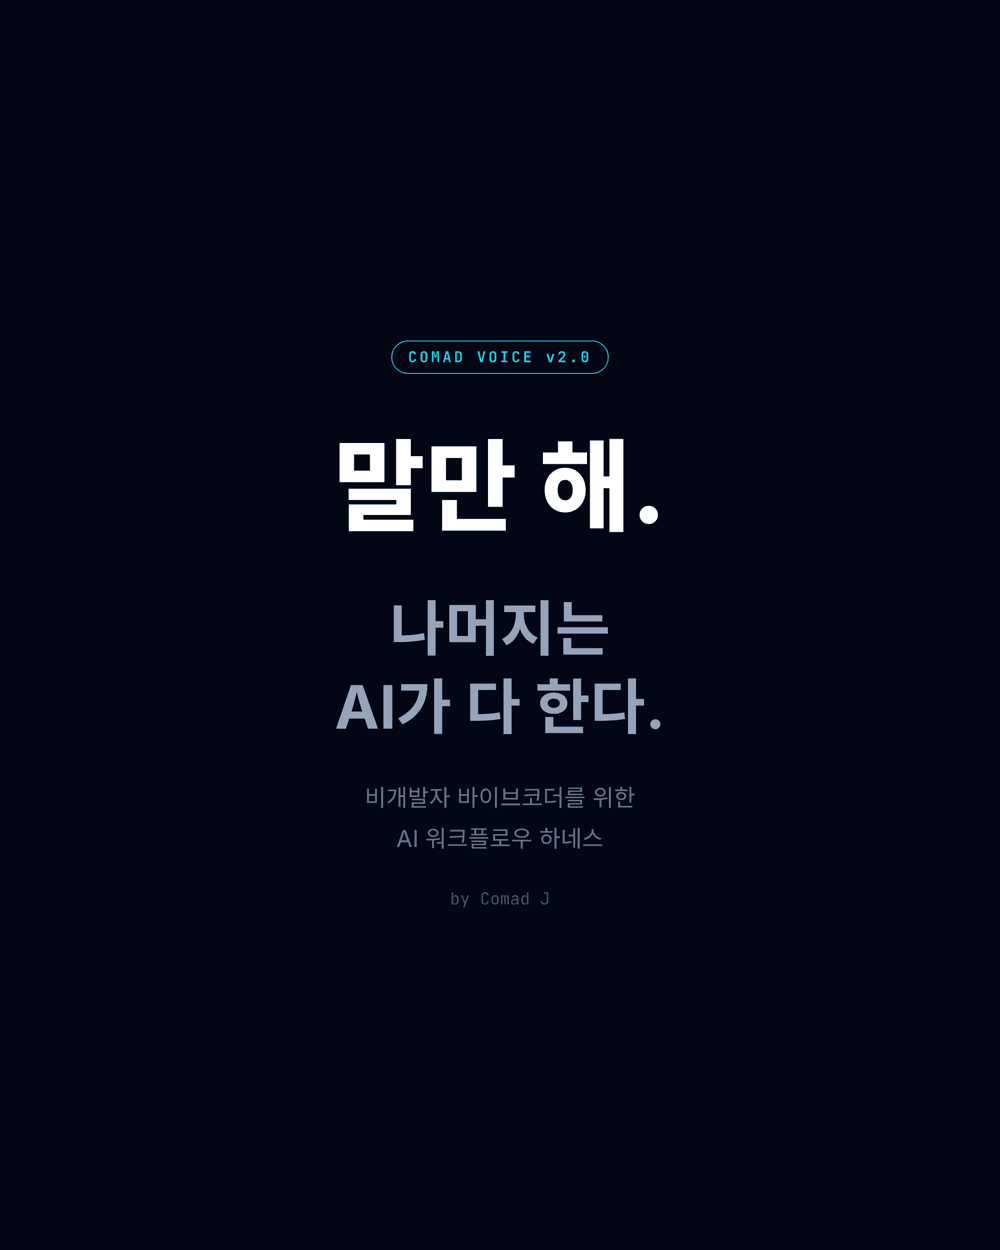
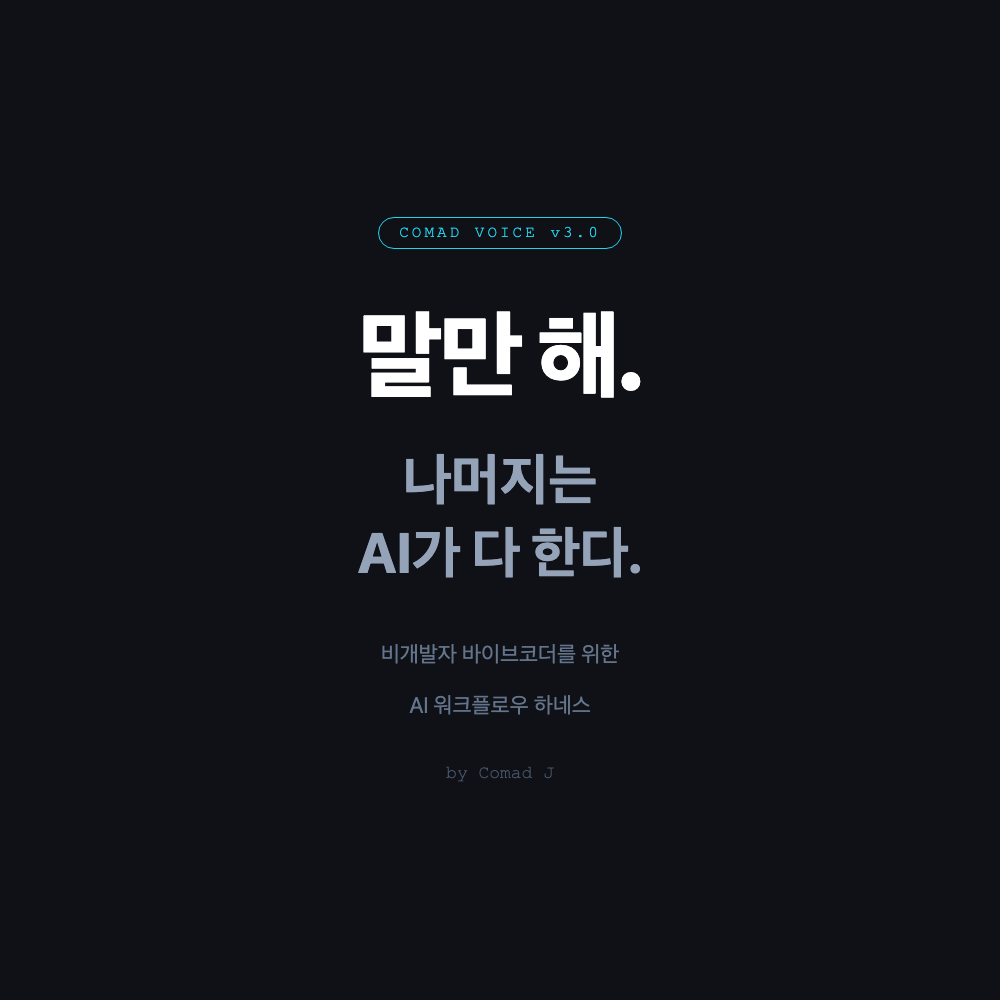
v3.0.0: update README, images, and version for T6-T10 feature expansion
Regenerate cover image (v2.0 -> v3.0) and pipeline image (5 roles -> 6 roles,
11 triggers). Update feature comparison table, cheat sheet, and project
structure to reflect all new triggers. Increase image display width to 800px.

diff --git a/README.md b/README.md
@@ -1,5 +1,5 @@
 <p align="center">
-  <img src="docs/images/slide-1-cover.png" alt="Comad Voice" width="480" style="max-width: 100%;">
+  <img src="docs/images/slide-1-cover.png" alt="Comad Voice" width="800" style="max-width: 100%;">
 </p>
 
 <h1 align="center">Comad Voice</h1>
@@ -70,12 +70,12 @@
 **After:** "검토해봐" → Claude가 알아서 진단하고, 선택지 카드를 보여주고, 선택만 하면 자동 실험 루프
 
 <p align="center">
-  <img src="docs/images/slide-2-before-after.png" alt="Before vs After" width="600" style="max-width: 100%;">
+  <img src="docs/images/slide-2-before-after.png" alt="Before vs After" width="800" style="max-width: 100%;">
 </p>
 
 ### 기능 비교
 
-| 기능 | Raw Claude Code | Comad Voice |
+| 기능 | Raw Claude Code | Comad Voice v3 |
 | --- | :---: | :---: |
 | 한마디 진단 ("검토해봐") | - | O |
 | 자동 실험 루프 (autoresearch) | - | O |
@@ -83,6 +83,11 @@
 | 세션 메모리 관리 | - | O |
 | 로컬 모델 대기시간 활용 | - | O |
 | 비개발자 카드 UI | - | O |
+| 디자인 파이프라인 (시안+코드) | - | O (v3 신규) |
+| 보안 감사 (CSO 모드) | - | O (v3 신규) |
+| 브라우저 QA 테스트 | - | O (v3 신규) |
+| 배포+카나리 모니터링 | - | O (v3 신규) |
+| 멀티AI 검증+학습 관리 | - | O (v3 신규) |
 | 설치 복잡도 | - | 1줄 curl |
 
 ### 왜 Comad Voice인가?
@@ -202,6 +207,11 @@ Claude가 백그라운드 실행 + 병렬 작업을 자동으로 관리합니다
 | 대기 시간 활용   | "다음 실험 미리 준비해줘"                  |
 | 병렬 작업        | 자동 감지 (의존성 없는 작업을 알아서 위임) |
 | 레포 꾸미기      | "광택", "repo polish", "레포 정리"         |
+| 디자인 만들기    | "디자인해줘", "UI 만들어줘", "목업"        |
+| 보안 점검        | "보안 점검", "보안 감사", "취약점"         |
+| 사이트 테스트    | "QA해줘", "화면 확인", "사이트 테스트"     |
+| 배포하기         | "배포해줘", "라이브로", "프로덕션에"       |
+| AI 세컨드 오피니언 | "다른 AI한테 물어봐", "세컨드 오피니언"  |
 
 ---
 
@@ -210,7 +220,7 @@ Claude가 백그라운드 실행 + 병렬 작업을 자동으로 관리합니다
 ### Full-Cycle Pipeline
 
 <p align="center">
-  <img src="docs/images/slide-3-pipeline.png" alt="Full-Cycle Pipeline" width="600" style="max-width: 100%;">
+  <img src="docs/images/slide-3-pipeline.png" alt="Full-Cycle Pipeline" width="800" style="max-width: 100%;">
 </p>
 
 ```
@@ -227,9 +237,9 @@ Claude가 백그라운드 실행 + 병렬 작업을 자동으로 관리합니다
          ↓
 [INTEGRATE] 최적 결과 병합 + 리팩토링
          ↓
-[POLISH] QA + 성능 + 문서화
+[POLISH] 디자인 검수(T6) + 브라우저 QA(T8) + 보안 감사(T7) + 문서화
          ↓
-[DELIVER] PR 생성 + 회고
+[DELIVER] 배포 파이프라인(T9) + PR 생성 + 회고 + 학습 기록(T10)
 ```
 
 ### 의존성 자동 판단
@@ -256,7 +266,8 @@ Claude가 5가지 기준으로 자동 분석합니다:
 ```
 comad-voice/
 ├── core/
-│   ├── comad-voice.md          # 핵심 설정 (CLAUDE.md에 추가됨)
+│   ├── comad-voice.md          # 핵심 설정 (CLAUDE.md에 추가됨, 11개 트리거)
+│   ├── design-palettes.md      # 디자인 레퍼런스 (9 팔레트 + 타이포/컬러 가이드)
 │   └── triggers/
 │       ├── t0-onboarding.md    # 첫 세션 온보딩
 │       ├── t1-review.md        # "검토해봐" 트리거
@@ -270,6 +281,8 @@ comad-voice/
 ├── install.sh                  # 원클릭 설치 스크립트
 └── tests/                      # bats 테스트 스위트
 ```
+
+> T6-T10 트리거는 `core/comad-voice.md`에 직접 정의되어 있습니다.
 
 ---
 

diff --git a/core/comad-voice.md b/core/comad-voice.md
@@ -1,5 +1,5 @@
 <!-- COMAD-VOICE:START -->
-<!-- COMAD-VOICE:VERSION:2.2.0 -->
+<!-- COMAD-VOICE:VERSION:3.0.0 -->
 # Comad Voice — "말만 해. 나머지는 AI가 다 한다."
 
 비개발자 바이브코더를 위한 AI 워크플로우 하네스.
